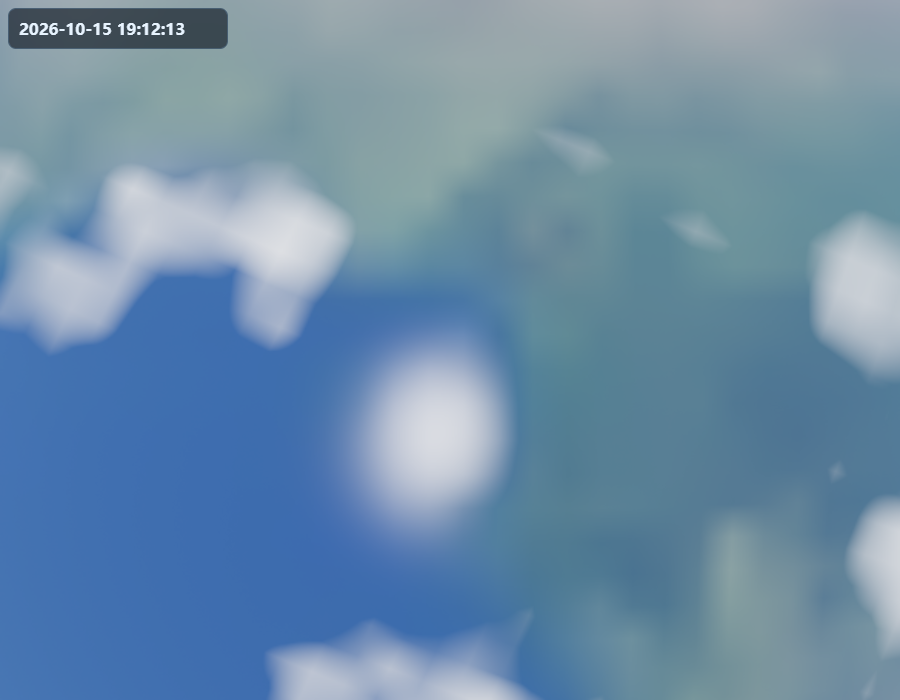
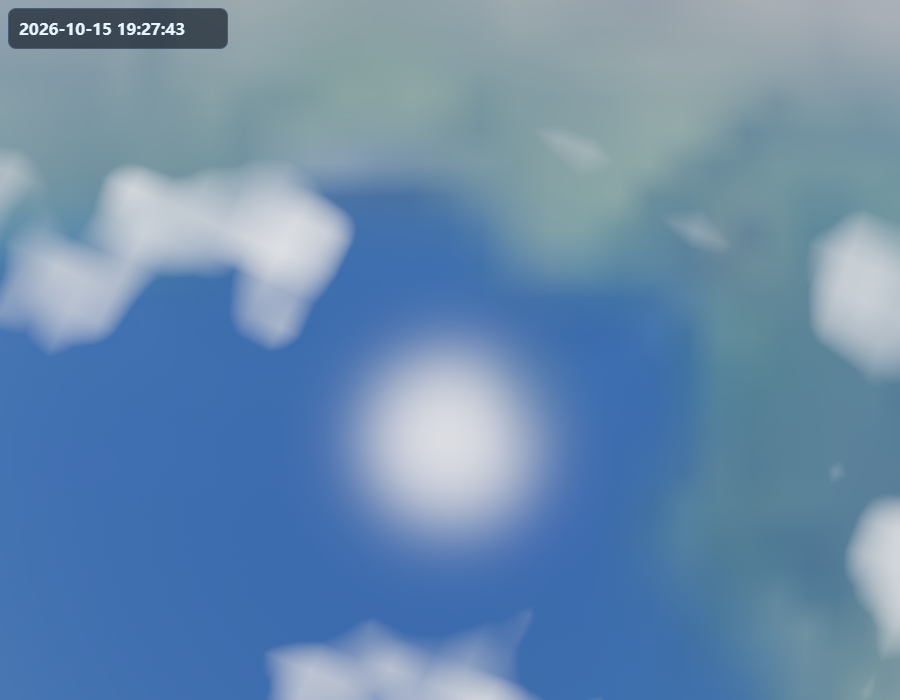
feat(eclipse): 日食阴影改为在接收体表面逐片元计算
原实现只在场景里插一个黑色锥体网格：**接收体表面本身不变暗**，于是日全食时
地面还是亮的——这是与真实相差最远的一处。

改为在 planetMaterial 里按真实的可见性判据逐片元求遮蔽：
从该片元看，遮挡体与太阳各自的**角半径**谁大、两者中心的**角分离**多少，
决定两圆盘的重叠比例：
    cover = 1 − smoothstep(aSun − aOcc, aSun + aOcc, sep)
这正是"你能不能看到日全食"的物理判据（sep < aSun−aOcc 为全遮）。
遮蔽因子与 ringSh / cloudShadow 并列乘入最终着色。

接线（eclipses.js）：
- 日食时把月球推给地球材质、月食时把地球推给月球材质。
- **每帧先清除再按需设置**——不清除的话食结束后阴影会永久留在表面上。
- 遮蔽 uniform **不受** distCam 门控：锥体网格只在近处才值得画，但"月球投在地球上的
  阴影"从地月系之外照样看得见；未对齐时着色器自然算出 0，无需另判条件。

验证（tools/verify-eclipse-shadow.mjs，用真实星历 + 与着色器同源的公式）：
  2026-08-12（真实日全食，冰岛/西班牙可见）→ 影轴交点处遮蔽 **99.9%**
  2026-08-27（半月后，无食）              → **0.00%**

工具本身踩了两个坑，都已修正并留注释：
1. 初版返回的是**透射率**而不是遮蔽比例，"取最大值"于是找到最不受遮的一刻；
2. 初版取**地心月下点**——从地表看月球有约 1° 视差，而日面角半径才 0.26°，
   全食点偏离地心月下点可达 1°，用错点会得出"无食"。改为求影轴与地表的交点。

npm test 191/191；构建通过；浏览器零错误。

diff --git a/src/scene/eclipses.js b/src/scene/eclipses.js
@@ -18,6 +18,19 @@ const _v3 = new THREE.Vector3();
  * 日食阴影系统：管理场景中所有活跃的阴影锥。
  * 每帧根据星历位置更新阴影锥几何，在接收体表面渲染半影。
  */
+/** 把当前有效的日食遮挡体写入接收体材质，供其片元着色器做逐片元遮蔽。
+ * 放在模块级而不是类里：它不需要实例状态，写成类方法反而会掩盖这一点。 */
+function pushOccluder(receiver, occ, camPosKm, sunDistKm) {
+  const u = receiver?.mat?.userData?.uniforms;
+  if (!u?.uEclOn) return;
+  if (!occ) { u.uEclOn.value = 0; return; }
+  u.uEclOn.value = 1;
+  // 世界系（相机相对 = 绝对位置 − 相机位置；片元里的 vPosW 就是这一系）
+  u.uEclPos.value.set(occ.posKm[0] - camPosKm[0], occ.posKm[1] - camPosKm[1], occ.posKm[2] - camPosKm[2]);
+  u.uEclR.value = occ.phys.radiusKm;
+  u.uSunDistKm.value = sunDistKm;
+}
+
 export class EclipseSystem {
   constructor(scene, world) {
     this.scene = scene;
@@ -41,12 +54,21 @@ export class EclipseSystem {
     const sunPos = sun.posKm;
     let activeCount = 0;
 
+    // 日食遮蔽：每帧先清除再按需设置。不清除的话食结束后阴影会永久留在表面上。
+    // 注意这一步**不受** distCam 门控——锥体网格只在近处才值得画，但"月球在地球上
+    // 投下的阴影"从远处（例如地月系之外）照样看得见，而且逐片元遮蔽本来就便宜。
+    // 遮蔽比例由着色器按角半径/角分离算，未对齐时自然趋于 0，无需在这里判条件。
+    for (const id of ['earth', 'moon']) pushOccluder(bodies.get(id), null, camPosKm, 1);
+    const distTo = (a) => Math.hypot(a.posKm[0], a.posKm[1], a.posKm[2]);
+
     // ── 日食：月球→地球 ──
     const moon = bodies.get('moon');
     const earth = bodies.get('earth');
     if (moon && earth) {
       const distCam = _v1.set(camPosKm[0] - earth.posKm[0], camPosKm[1] - earth.posKm[1], camPosKm[2] - earth.posKm[2]).length();
       // 只在地球附近 50 万 km 内渲染日食半影
+      // 月球在地球表面的遮蔽（日食）
+      pushOccluder(earth, moon, camPosKm, distTo(earth));
       if (distCam < 5e5) {
         if (this._updateCone(activeCount, 'solar', 'sun', 'moon', 'earth',
           sunPos, moon.posKm, moon.phys.radiusKm, earth.posKm, earth.phys.radiusKm, bodies)) activeCount++;
@@ -56,6 +78,8 @@ export class EclipseSystem {
     // ── 月食：地球→月球 ──
     if (moon && earth) {
       const distCam = _v1.set(camPosKm[0] - moon.posKm[0], camPosKm[1] - moon.posKm[1], camPosKm[2] - moon.posKm[2]).length();
+      // 地球在月球表面的遮蔽（月食）
+      pushOccluder(moon, earth, camPosKm, distTo(moon));
       if (distCam < 5e5) {
         if (this._updateCone(activeCount, 'lunar', 'sun', 'earth', 'moon',
           sunPos, earth.posKm, earth.phys.radiusKm, moon.posKm, moon.phys.radiusKm, bodies)) activeCount++;

diff --git a/src/scene/planetMaterial.js b/src/scene/planetMaterial.js
@@ -88,6 +88,11 @@ export function createPlanetMaterial({
     uNaturalTintMix: { value: BODY_GRADE[bodyId]?.tintMix ?? 0 },
     uVeil: { value: BODY_GRADE[bodyId]?.veil ?? 0.0 },
     uVeilColor: { value: new THREE.Vector3(...(BODY_GRADE[bodyId]?.veilColor ?? [0, 0, 0])) },
+    // 日食：遮挡体位置与半径（世界系，相机相对），以及本体的日心距
+    uEclOn: { value: 0 },
+    uEclPos: { value: new THREE.Vector3() },
+    uEclR: { value: 1 },
+    uSunDistKm: { value: 1.496e8 },
     // 无气天体：Hapke 风化层 BRDF（见 src/astro/bodies.js HAPKE_PARAMS）
     uHapke: { value: hp ? 1 : 0 },
     uW: { value: hp?.w ?? 0.25 },
@@ -146,6 +151,11 @@ export function createPlanetMaterial({
       uniform float uNaturalTintMix;
       uniform float uVeil;
       uniform vec3 uVeilColor;
+      uniform int uEclOn;
+      uniform vec3 uEclPos;
+      uniform float uEclR;
+      uniform float uSunDistKm;
+      const float SUN_RADIUS_KM = 695700.0;
       uniform int uHapke;
       uniform float uW, uB0, uHh, uHg;
       varying vec2 vUv;
@@ -340,7 +350,23 @@ export function createPlanetMaterial({
                   * ((1.0 + B) * P + H0 * H1 - 1.0);
           shade = clamp(r * 3.14159265 / max(uW, 1e-3), 0.0, 4.0);
         }
-        vec3 col = albedo * shade * uSunI * ringSh * cloudShadow;
+        // === 日食遮蔽（逐片元）===
+        // 原实现只在场景里插一个黑色锥体网格：接收体表面本身不变暗，
+        // 于是"日全食时地面还是亮的"——这是与真实相差最远的一处。
+        // 这里按真实的可见性判据算：从该片元看，遮挡体与太阳的**角半径**谁大、
+        // 两者中心的**角分离**多少，决定遮蔽比例（贝利珠/日冕环等更细的效应仍未建模）。
+        float eclSh = 1.0;
+        if (uEclOn == 1) {
+          vec3 toOcc = uEclPos - vPosW;
+          float dOcc = max(length(toOcc), 1.0);
+          float aOcc = asin(clamp(uEclR / dOcc, 0.0, 1.0));
+          float aSun = asin(clamp(SUN_RADIUS_KM / max(uSunDistKm, 1.0), 0.0, 1.0));
+          float sep = acos(clamp(dot(toOcc / dOcc, normalize(uSunDir)), -1.0, 1.0));
+          // 两圆盘重叠：sep < aSun-aOcc 为全遮，sep > aSun+aOcc 为无遮
+          float cover = 1.0 - smoothstep(aSun - aOcc, aSun + aOcc, sep);
+          eclSh = 1.0 - cover;
+        }
+        vec3 col = albedo * shade * uSunI * ringSh * cloudShadow * eclSh;
         // 气巨临边昏暗（厚大气斜视光程长 → 边缘变暗，旅行者/卡西尼实拍特征）
         if (uDetailMode == 2) {
           float muv = max(dot(n, normalize(-vPosW)), 0.0);
